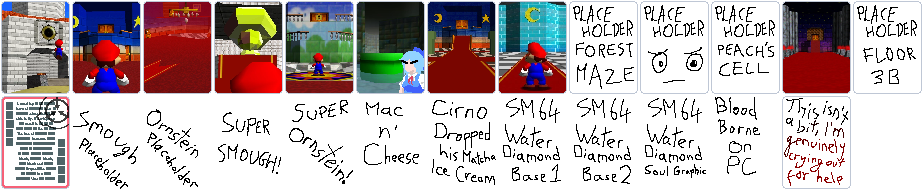
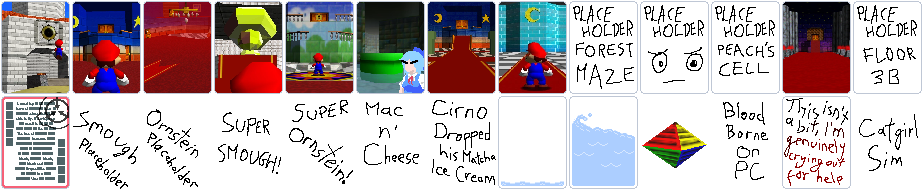
More Additions & Changes
Added a mod icon (As it appears in the Steamodded mod menu).

Added retextures for Hallucination, The Family, as well as a placeholder for Cartomancer.

Spilled ketchup all over Girl_DM_'s card :(

Little bit more fleshing out of custom rare graphics.

Learned a bunch about working with wacky stuff like Joker descriptions and trying to change them on the fly and... Hhhhhhhhhhhhh, this is incredibly dumb. All of that to work out a gimmick for The Family, as well as figure some stuff out for future content. Notes were taken, many frustrations were had.

README updated accordingly.

diff --git a/README.md b/README.md
@@ -5,7 +5,7 @@ A Balatro mod themed around [Cirno_TV](https://www.twitch.tv/Cirno_TV/), with va
 
 ![CTVaF Logo](https://i.imgur.com/CcRk9nq.png)
 
-**Cirno_TV & Friends** is a collaborative effort between [DaemonTsun](https://bsky.app/profile/daemontsun.bsky.social) & [NοpeTooFast](https://bsky.app/profile/nopetoofast.bsky.expert), which both retextures existing Jokers and adds some new ones, as well as various other changes such as some Joker names & descriptions, retextures of some enhancers & all blinds, and more!
+**Cirno_TV & Friends** is a collaborative effort between [DaemonTsun](https://bsky.app/profile/daemontsun.bsky.social) & [NοpeTooFast](https://bsky.app/profile/nopetoofast.bsky.expert), which retextures existing Jokers and adds some new ones, as well as various other changes such as some Joker names & descriptions, retextures of some enhancers & all blinds, and more!
 
 DaemonTsun's art contributions are public domain - Some memes or pictures are not by him and copied as is, with some Jokers only being slightly edited. Further credits are available at the bottom of this README. Original Balatro art is property of LocalThunk.
 
@@ -15,7 +15,7 @@ DaemonTsun's art contributions are public domain - Some memes or pictures are no
 
 **Cirno_TV & Friends** currently:
 - Retextures:
-  - 62 Jokers (Some get filtered/altered by the Mature Reference setting depending on what it is set to.)
+  - 65 Jokers (Some get filtered/altered by the Mature Reference setting depending on what it is set to.)
   - All Blind Chips
   - All Seals
   - All Planet Cards
